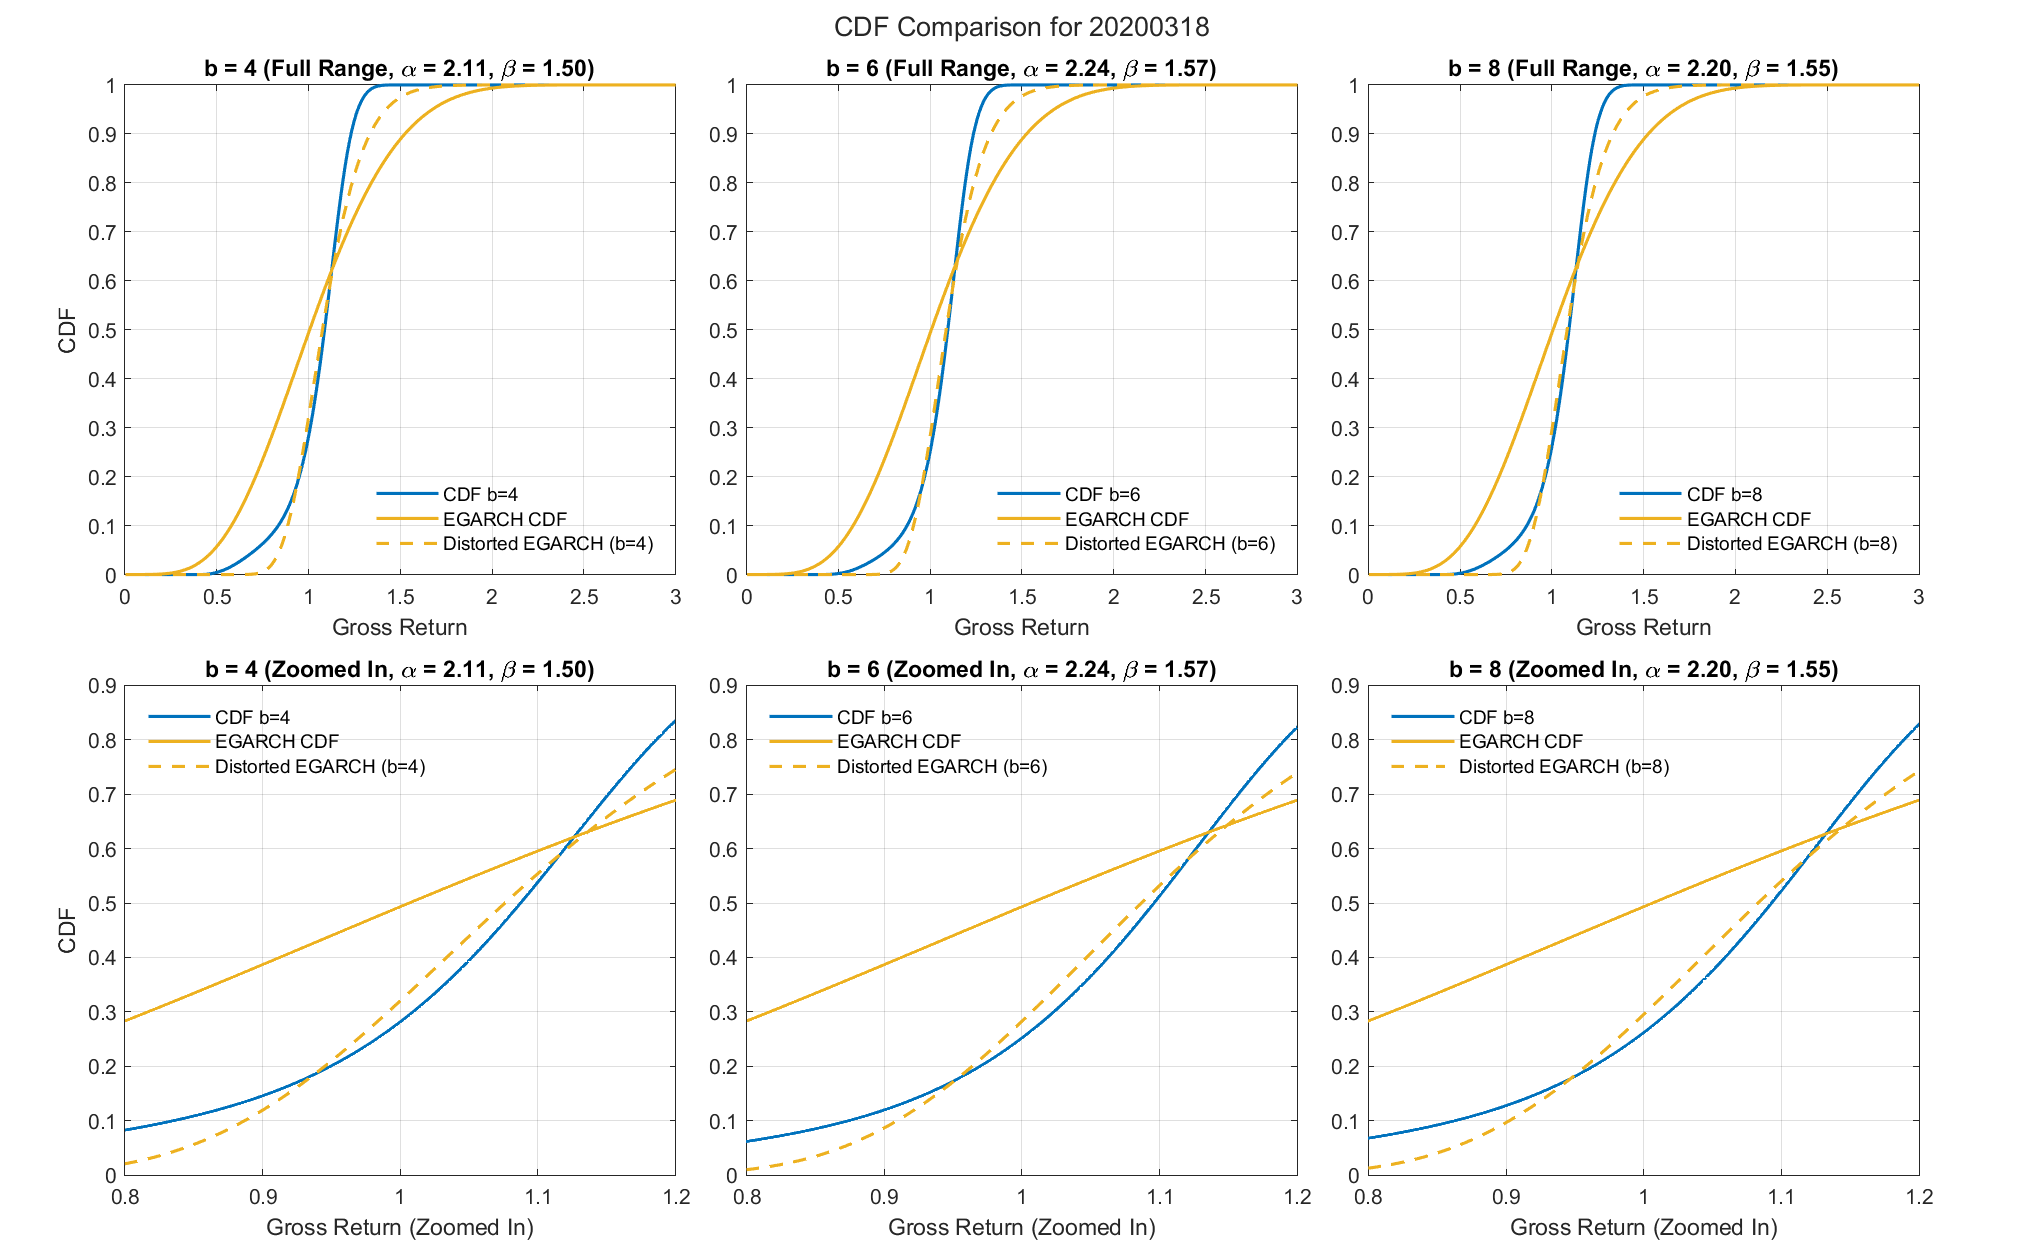
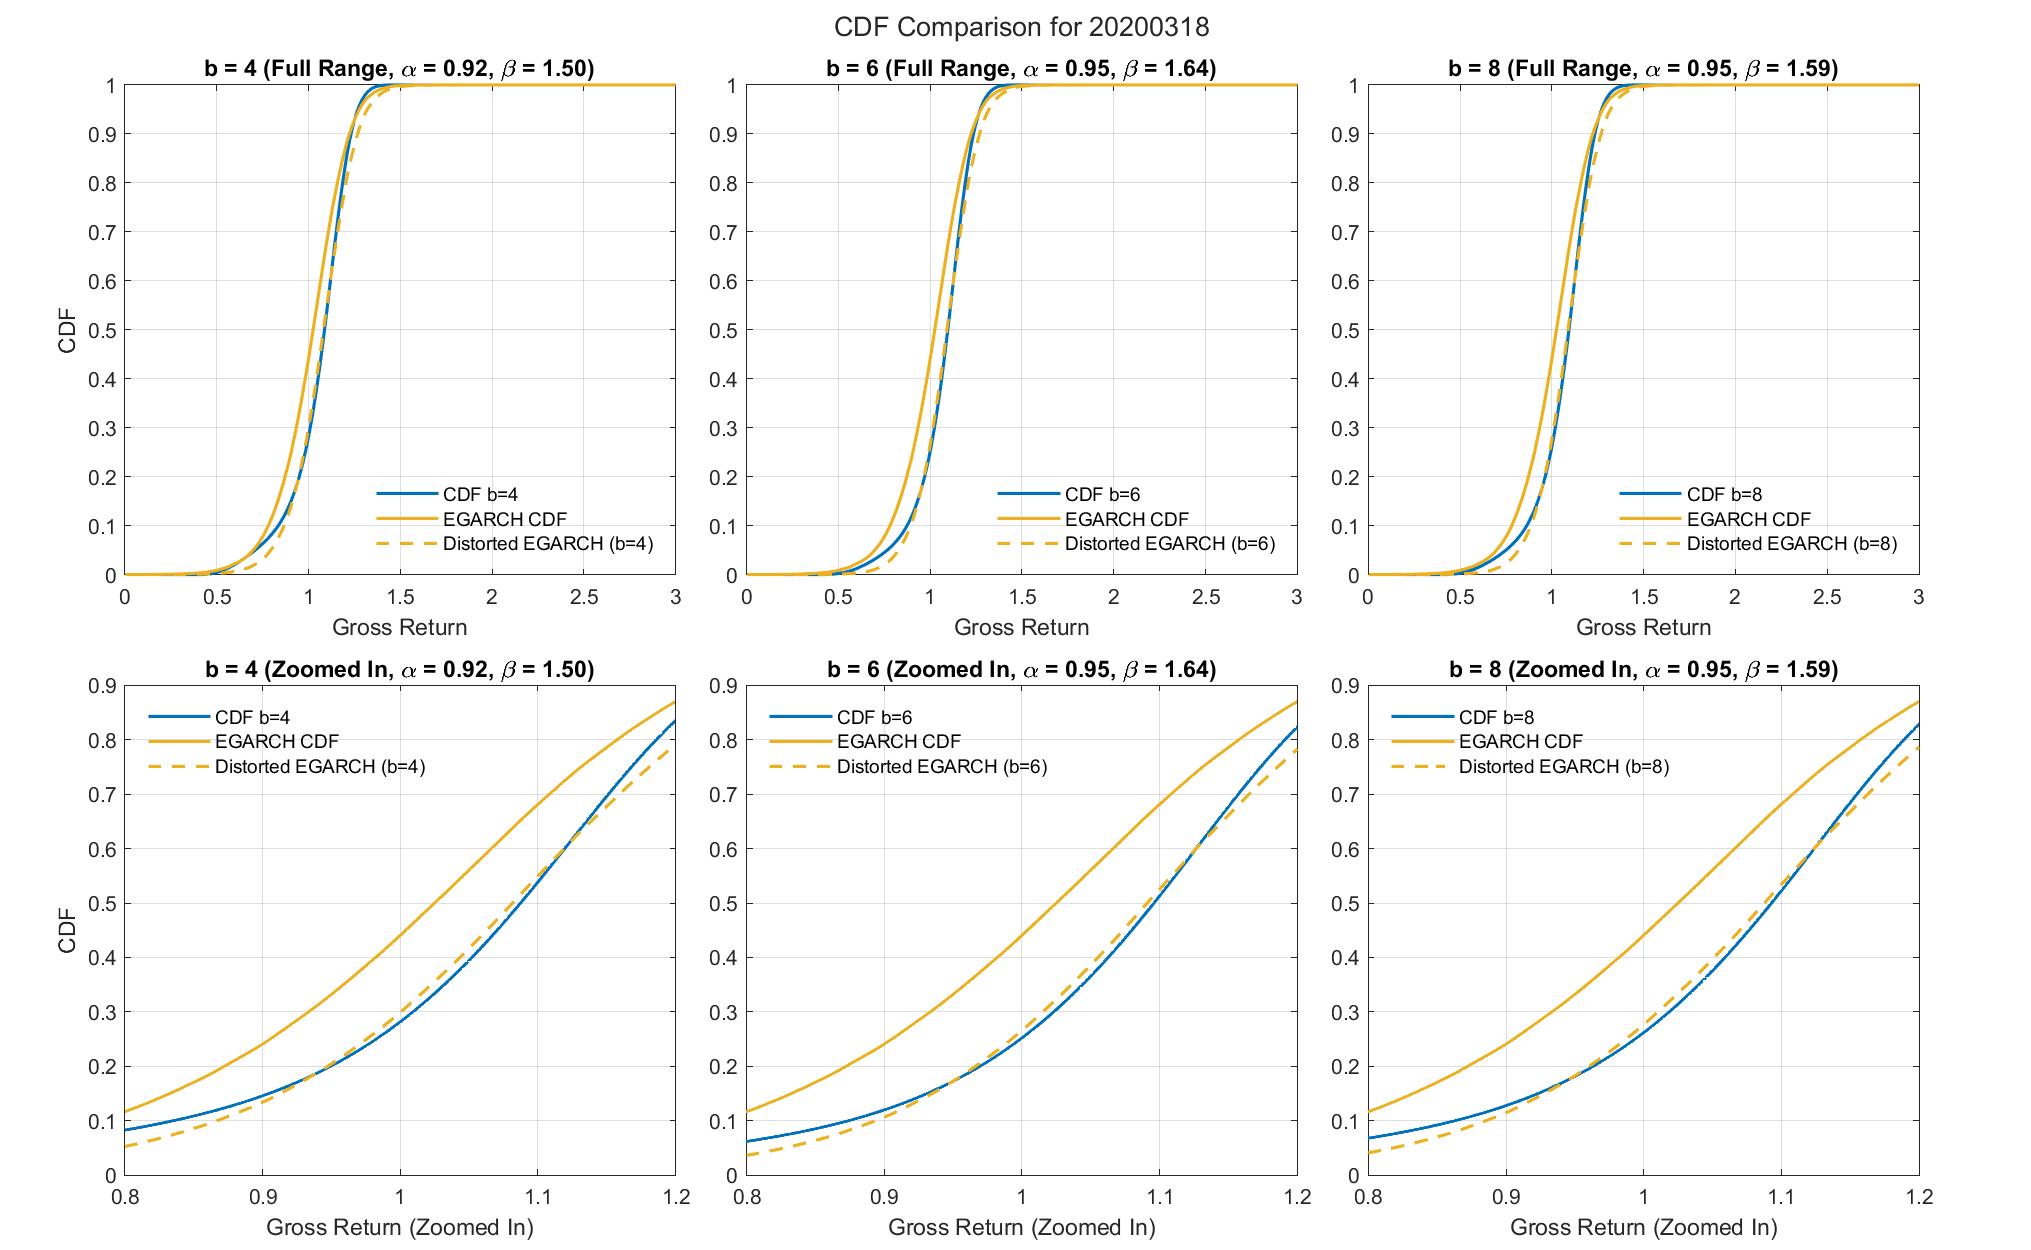
Updated EGARCH simulation and parameter estimation for monthly optimization
- Updated the computation of EGARCH_CDF_Values with corrected interpolation and non-negative constraint, ensuring accurate cumulative distribution functions.
- Refactored `compute_total_integral` for improved efficiency and readability by directly using logical indexing and vectorized operations.
- Enhanced parameter optimization script to include detailed logging for each month's optimal alpha and beta values, along with their corresponding dates.
- Integrated the updated EGARCH simulation results into the parameter estimation process, ensuring consistency with the recalculated data.

diff --git a/08  變形函數（Distortion Function）/Procedure__Estimate_Distortion_Function_Parameters_Monthly.m b/08  變形函數（Distortion Function）/Procedure__Estimate_Distortion_Function_Parameters_Monthly.m
@@ -101,9 +101,14 @@ for t = 1:length(Target_Date)
 
     original_x = EGARCH_PDF_X(t, :);
     original_f = EGARCH_PDF_Values(t, :);
+    
+    % Interpolate using 'pchip' to avoid oscillation
+    interpolated_f = interp1(original_x, original_f, max_gross_return_y, 'pchip', 0);
 
-    interpolated_f = interp1(original_x, original_f, max_gross_return_y, 'spline', 0);
+    % Ensure interpolated values are non-negative
+    interpolated_f(interpolated_f < 0) = 0;
 
+    % Compute CDF using cumulative integration
     cdf_values = cumtrapz(max_gross_return_y, interpolated_f);
     cdf_values = cdf_values / max(cdf_values);
 
@@ -116,8 +121,8 @@ clear original_x original_f interpolated_f cdf_values
 
 %% Optimization of Alpha and Beta Parameters with Algorithm Selection
 
-range_alpha = [0.5, 20];
-range_beta  = [0.5, 20];
+range_alpha = [0.5, 2];
+range_beta  = [0.5, 2];
 
 optimal_alpha = zeros(length(Target_Date), length(b_values));
 optimal_beta  = zeros(length(Target_Date), length(b_values));
@@ -132,8 +137,6 @@ for b_idx = 1:length(b_values)
 
     b = b_values(b_idx);
     CDF_data = AllR_CDF_Tables{b_idx};
-
-    fprintf('Processing b = %d...\n', b);
 
     for t = 1:length(Target_Date)
         
@@ -171,7 +174,7 @@ for b_idx = 1:length(b_values)
         optimal_alpha(t, b_idx) = opt_params(1);
         optimal_beta(t, b_idx)  = opt_params(2);
     
-        fprintf('%d - Optimal alpha: %f, beta: %f\n', Target_Date(t), opt_params(1), opt_params(2));
+        fprintf('[ b = %d ] %d - Optimal alpha: %f, beta: %f\n', b, Target_Date(t), opt_params(1), opt_params(2));
     end
 end
 
@@ -185,19 +188,18 @@ function total_integral = compute_total_integral(params, y_limits, max_gross_ret
     alpha = params(1);
     beta = params(2);
 
-    total_integral = 0;
+    % Get the indices of the selected range
+    indices = ismember(max_gross_return_y, y_limits);
 
-    for i = 1:length(y_limits)
-        current_limit = y_limits(i);
-        idx = max_gross_return_y == current_limit;
+    % Extract values within the selected range
+    selected_f_y_g_hats = CDF_g_hats(indices);
+    selected_f_y_EGARCH = CDF_EGARCH(indices);
 
-        selected_f_y_g_hats = CDF_g_hats(idx);
-        selected_f_y_EGARCH = CDF_EGARCH(idx);
+    % Compute distorted values
+    distorted_values = Distortion(selected_f_y_EGARCH, beta, alpha);
 
-        distorted_value = Distortion(selected_f_y_EGARCH, beta, alpha);
-
-        total_integral = total_integral + (selected_f_y_g_hats - distorted_value).^2;
-    end
+    % Compute the total integral
+    total_integral = sum((selected_f_y_g_hats - distorted_values).^2);
 end
 
 
@@ -253,10 +255,49 @@ saveas(gcf, fullfile(Path_Output, filename));
 clear filename
 
 
+%% Find the Maximum and Minimum Values of optimal_alpha and optimal_beta with Corresponding Dates
+
+% Flatten the matrices into vectors
+alpha_values = optimal_alpha(:);
+beta_values = optimal_beta(:);
+
+% Find max and min for alpha
+[max_alpha, max_alpha_idx] = max(alpha_values);
+[min_alpha, min_alpha_idx] = min(alpha_values);
+
+% Find max and min for beta
+[max_beta, max_beta_idx] = max(beta_values);
+[min_beta, min_beta_idx] = min(beta_values);
+
+% Convert linear indices to corresponding months (row indices)
+max_alpha_month = mod(max_alpha_idx - 1, 312) + 1;
+min_alpha_month = mod(min_alpha_idx - 1, 312) + 1;
+max_beta_month = mod(max_beta_idx - 1, 312) + 1;
+min_beta_month = mod(min_beta_idx - 1, 312) + 1;
+
+% Get corresponding dates
+max_alpha_date = Target_Date(max_alpha_month);
+min_alpha_date = Target_Date(min_alpha_month);
+max_beta_date = Target_Date(max_beta_month);
+min_beta_date = Target_Date(min_beta_month);
+
+% Display results
+fprintf('Maximum alpha: %.4f, occurs on %d (month %d)\n', max_alpha, max_alpha_date, max_alpha_month);
+fprintf('Minimum alpha: %.4f, occurs on %d (month %d)\n', min_alpha, min_alpha_date, min_alpha_month);
+fprintf('Maximum beta: %.4f, occurs on %d (month %d)\n', max_beta, max_beta_date, max_beta_month);
+fprintf('Minimum beta: %.4f, occurs on %d (month %d)\n', min_beta, min_beta_date, min_beta_month);
+
+clear alpha_values beta_values
+clear max_alpha       max_beta        min_alpha       min_beta
+clear max_alpha_idx   max_beta_idx    min_alpha_idx   min_beta_idx
+clear max_alpha_month max_beta_month  min_alpha_month min_beta_month
+clear max_alpha_date  max_beta_date   min_alpha_date  min_beta_date
+
+
 %% Plot: CDF comparison
 
 % Setting
-t = 264;
+t = 265;
 
 CDF_b_4 = b_4_AllR_CDF(t, :);
 CDF_b_6 = b_6_AllR_CDF(t, :);
